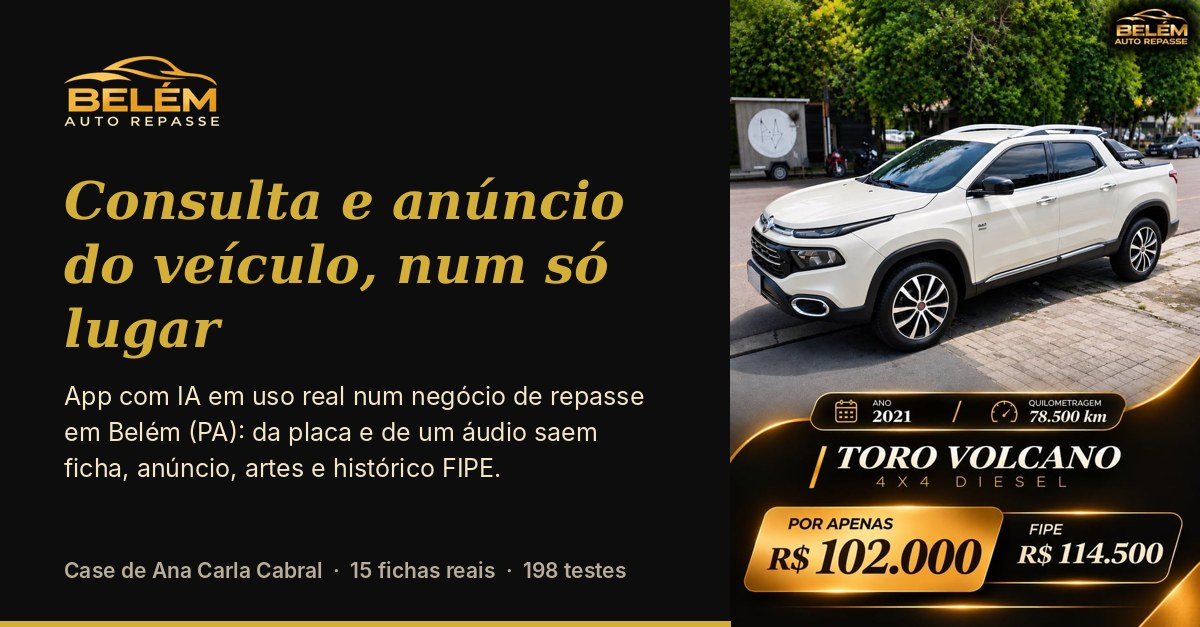
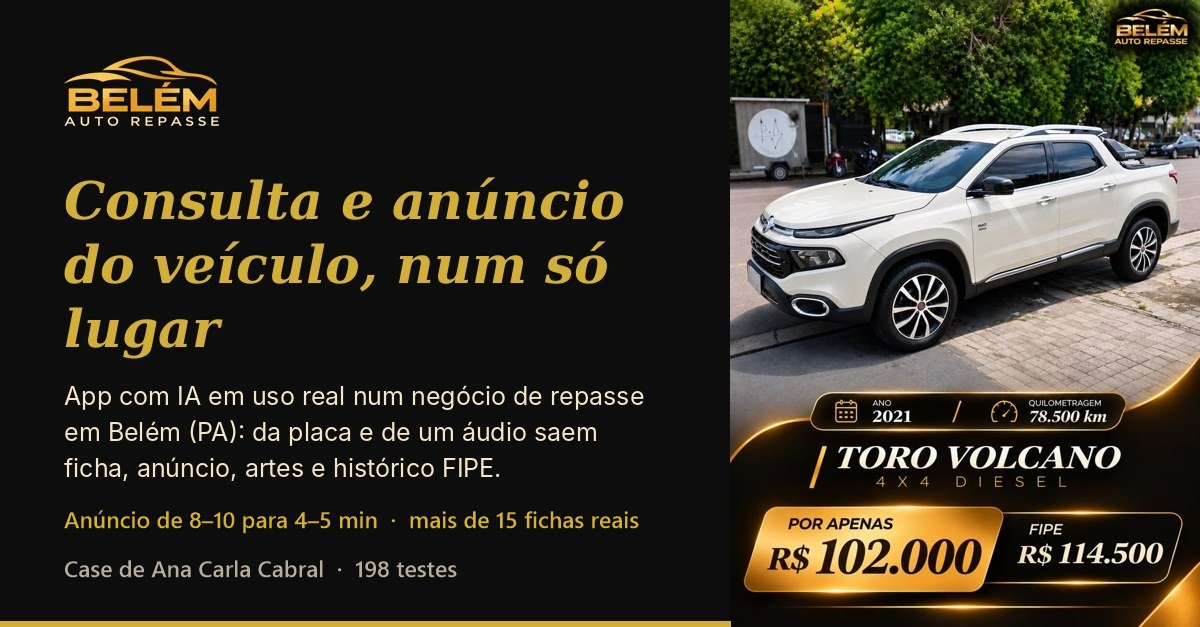
Belém: vídeo vertical, tempo por anúncio, novo Antes e 'mais de 15 fichas'

Changed region(s): [[0.0617, 0.8788, 0.5242, 0.9394], [0.0308, 0.8182, 0.3083, 0.8485], [0.3392, 0.8182, 0.555, 0.8485]]

diff --git a/belem-auto-repasse/index.html b/belem-auto-repasse/index.html
@@ -184,12 +184,16 @@ mark.ativo{background:rgba(212,175,55,.35)}
 .atributos{display:grid;grid-template-columns:repeat(3,1fr);gap:32px}
 .atributos p{font-size:.95rem}
 
-.video{aspect-ratio:16/9;max-width:880px;border-radius:14px;overflow:hidden;background:var(--papel)}
+/* ---------- Vídeo (vertical, 9:16) ---------- */
+.video-area{display:grid;grid-template-columns:minmax(0,1fr) minmax(0,360px);gap:48px;align-items:center}
+.video{aspect-ratio:9/16;width:100%;max-width:360px;margin:0 auto;border-radius:14px;overflow:hidden;background:var(--preto)}
 .video iframe{width:100%;height:100%;border:0;display:block}
+.reserva{font-size:.9rem;margin-top:16px}
 
-/* ---------- A preencher (remover antes de publicar) ---------- */
-.pendente{border:2px dashed var(--alerta);background:#FFF7E6;color:var(--alerta);border-radius:10px;padding:14px 16px;font-size:.92rem;font-weight:500}
-.video.pendente,figure.pendente{display:flex;align-items:center;justify-content:center;text-align:center}
+/* ---------- Tempo por anúncio ---------- */
+.tempo{font:italic 700 1.5rem/1.1 "Bodoni Moda",Georgia,serif;color:var(--ouro-texto);margin:0 0 8px}
+.depois .tempo{color:var(--ouro)}
+.medicao{font-size:.9rem;color:var(--texto-suave);margin:18px 0 0;max-width:none}
 
 footer{background:var(--preto);color:var(--bege);padding:56px 0}
 footer h2{color:var(--ouro)}
@@ -202,7 +206,8 @@ footer a{color:var(--bege)}
   .fluxo{grid-template-columns:1fr 1fr}
 }
 @media (max-width:760px){
-  .trilha,.processo,.grupos,.recursos,.decisoes,.custos,.duas,.atributos{grid-template-columns:1fr}
+  .trilha,.processo,.grupos,.recursos,.decisoes,.custos,.duas,.atributos,.video-area{grid-template-columns:1fr}
+  .video-area{gap:24px}
   .numeros{grid-template-columns:1fr 1fr}
   section{padding:60px 0}
   .topo{flex-direction:column;align-items:flex-start}
@@ -303,17 +308,17 @@ FIPE (nov/2026): R$ 61.240
 
     <div class="processo">
       <div class="coluna antes">
-        <h3>Antes: para cada carro, em ferramentas separadas</h3>
+        <p class="tempo">8 a 10 min por anúncio</p>
+        <h3>Antes: consulta num app, anúncio à mão</h3>
         <ol>
-          <li>Consultar a placa num app e encontrar a versão certa na Tabela FIPE.</li>
-          <li>Ver como o preço do modelo vinha variando, no app de consulta ou em outro serviço.</li>
-          <li>Anotar ou lembrar quilometragem, itens de confiança e reparos pendentes.</li>
-          <li>Digitar o anúncio do WhatsApp item por item, com risco de errar preço e quilometragem.</li>
-          <li>Calcular quanto o preço estava abaixo da FIPE, o principal argumento para o lojista.</li>
+          <li>Consultar a placa e o preço FIPE juntos, num app da Tabela FIPE.</li>
+          <li>Digitar o anúncio do WhatsApp à mão, item por item: não havia ferramenta para isso.</li>
+          <li>Fazer à parte a conta da diferença para a FIPE, o principal argumento para o lojista.</li>
           <li>Mandar as fotos soltas no grupo, sem arte.</li>
         </ol>
       </div>
       <div class="coluna depois">
+        <p class="tempo">4 a 5 min por anúncio</p>
         <h3>Depois: num só app, duas ações e uma conferência</h3>
         <ol>
           <li>Digitar a placa.</li>
@@ -323,6 +328,7 @@ FIPE (nov/2026): R$ 61.240
         <p class="rodape">A ficha, o anúncio com a diferença para a FIPE já calculada e o histórico de preço ficam no mesmo lugar, a partir dos dados que ele conferiu. A arte com as fotos é uma novidade: antes ela não existia.</p>
       </div>
     </div>
+    <p class="medicao">Tempo por anúncio: de 8 a 10 para 4 a 5 minutos (6 anúncios cronometrados em cada método, nov/2026).</p>
   </div>
 </section>
 
@@ -427,7 +433,18 @@ FIPE (nov/2026): R$ 61.240
   </div>
 </section>
 
-<!-- Seção do vídeo retirada até o vídeo ficar pronto -->
+<section id="video">
+  <div class="envoltorio video-area">
+    <div>
+      <h2>O app funcionando</h2>
+      <p>Demonstração gravada no iPhone, do jeito que o usuário usa: da placa ao anúncio, à arte e ao histórico FIPE.</p>
+      <p class="reserva"><a href="https://youtube.com/shorts/XlIm7J5bU4o" target="_blank" rel="noopener">Assistir no YouTube</a></p>
+    </div>
+    <div class="video">
+      <iframe src="https://www.youtube.com/embed/XlIm7J5bU4o" title="Belém Auto Repasse: demonstração do app no iPhone" loading="lazy" allow="accelerometer; autoplay; clipboard-write; encrypted-media; gyroscope; picture-in-picture; web-share" referrerpolicy="strict-origin-when-cross-origin" allowfullscreen></iframe>
+    </div>
+  </div>
+</section>
 
 <section id="decisoes">
   <div class="envoltorio">
@@ -515,7 +532,8 @@ FIPE (nov/2026): R$ 61.240
 <section id="resultados">
   <div class="envoltorio">
     <h2>Resultados</h2>
-    <p>O app já faz parte do dia a dia do negócio. Desde a entrega, <strong>o próprio usuário já criou 15 fichas com placas reais</strong>. Cada conta vê só as próprias fichas.</p>
+    <p><strong>Tempo por anúncio: de 8 a 10 para 4 a 5 minutos</strong> (6 anúncios cronometrados em cada método, nov/2026).</p>
+    <p>O app já faz parte do dia a dia do negócio. Desde a entrega, <strong>o próprio usuário já criou mais de 15 fichas com placas reais</strong>. Cada conta vê só as próprias fichas.</p>
     <p>Ele testou cada função e aprovou, e os ajustes que pediu, como o rótulo “PREÇO NO REPASSE” no anúncio, entraram no app.</p>
   </div>
 </section>

diff --git a/index.html b/index.html
@@ -138,7 +138,8 @@ footer a{color:#fff}
           <p class="sub">App web para um negócio de repasse de veículos · 13 etapas em 9 dias · out–nov/2026</p>
           <p>App que reúne num só lugar a consulta do veículo (placa, dados e FIPE) e a criação do anúncio, antes feitas em ferramentas separadas, carro a carro, num negócio com mais de 20 carros por semana. Da placa e de um áudio narrado saem a ficha conferida, o anúncio do WhatsApp, as artes com fotos e o histórico FIPE. Conduzi o projeto como dona do produto, com o Claude Code programando.</p>
           <ul class="numeros">
-            <li class="destaque"><b>15 fichas</b>reais criadas pelo usuário desde a entrega</li>
+            <li class="destaque"><b>8–10 → 4–5 min</b>por anúncio (6 anúncios cronometrados em cada método, nov/2026)</li>
+            <li class="destaque"><b>Mais de 15</b>fichas reais criadas pelo usuário desde a entrega</li>
             <li><b>136</b>decisões documentadas</li>
             <li><b>198</b>testes automatizados</li>
             <li><b>0 erros</b>dos 2 LLMs avaliados num gabarito de 11 casos</li>
